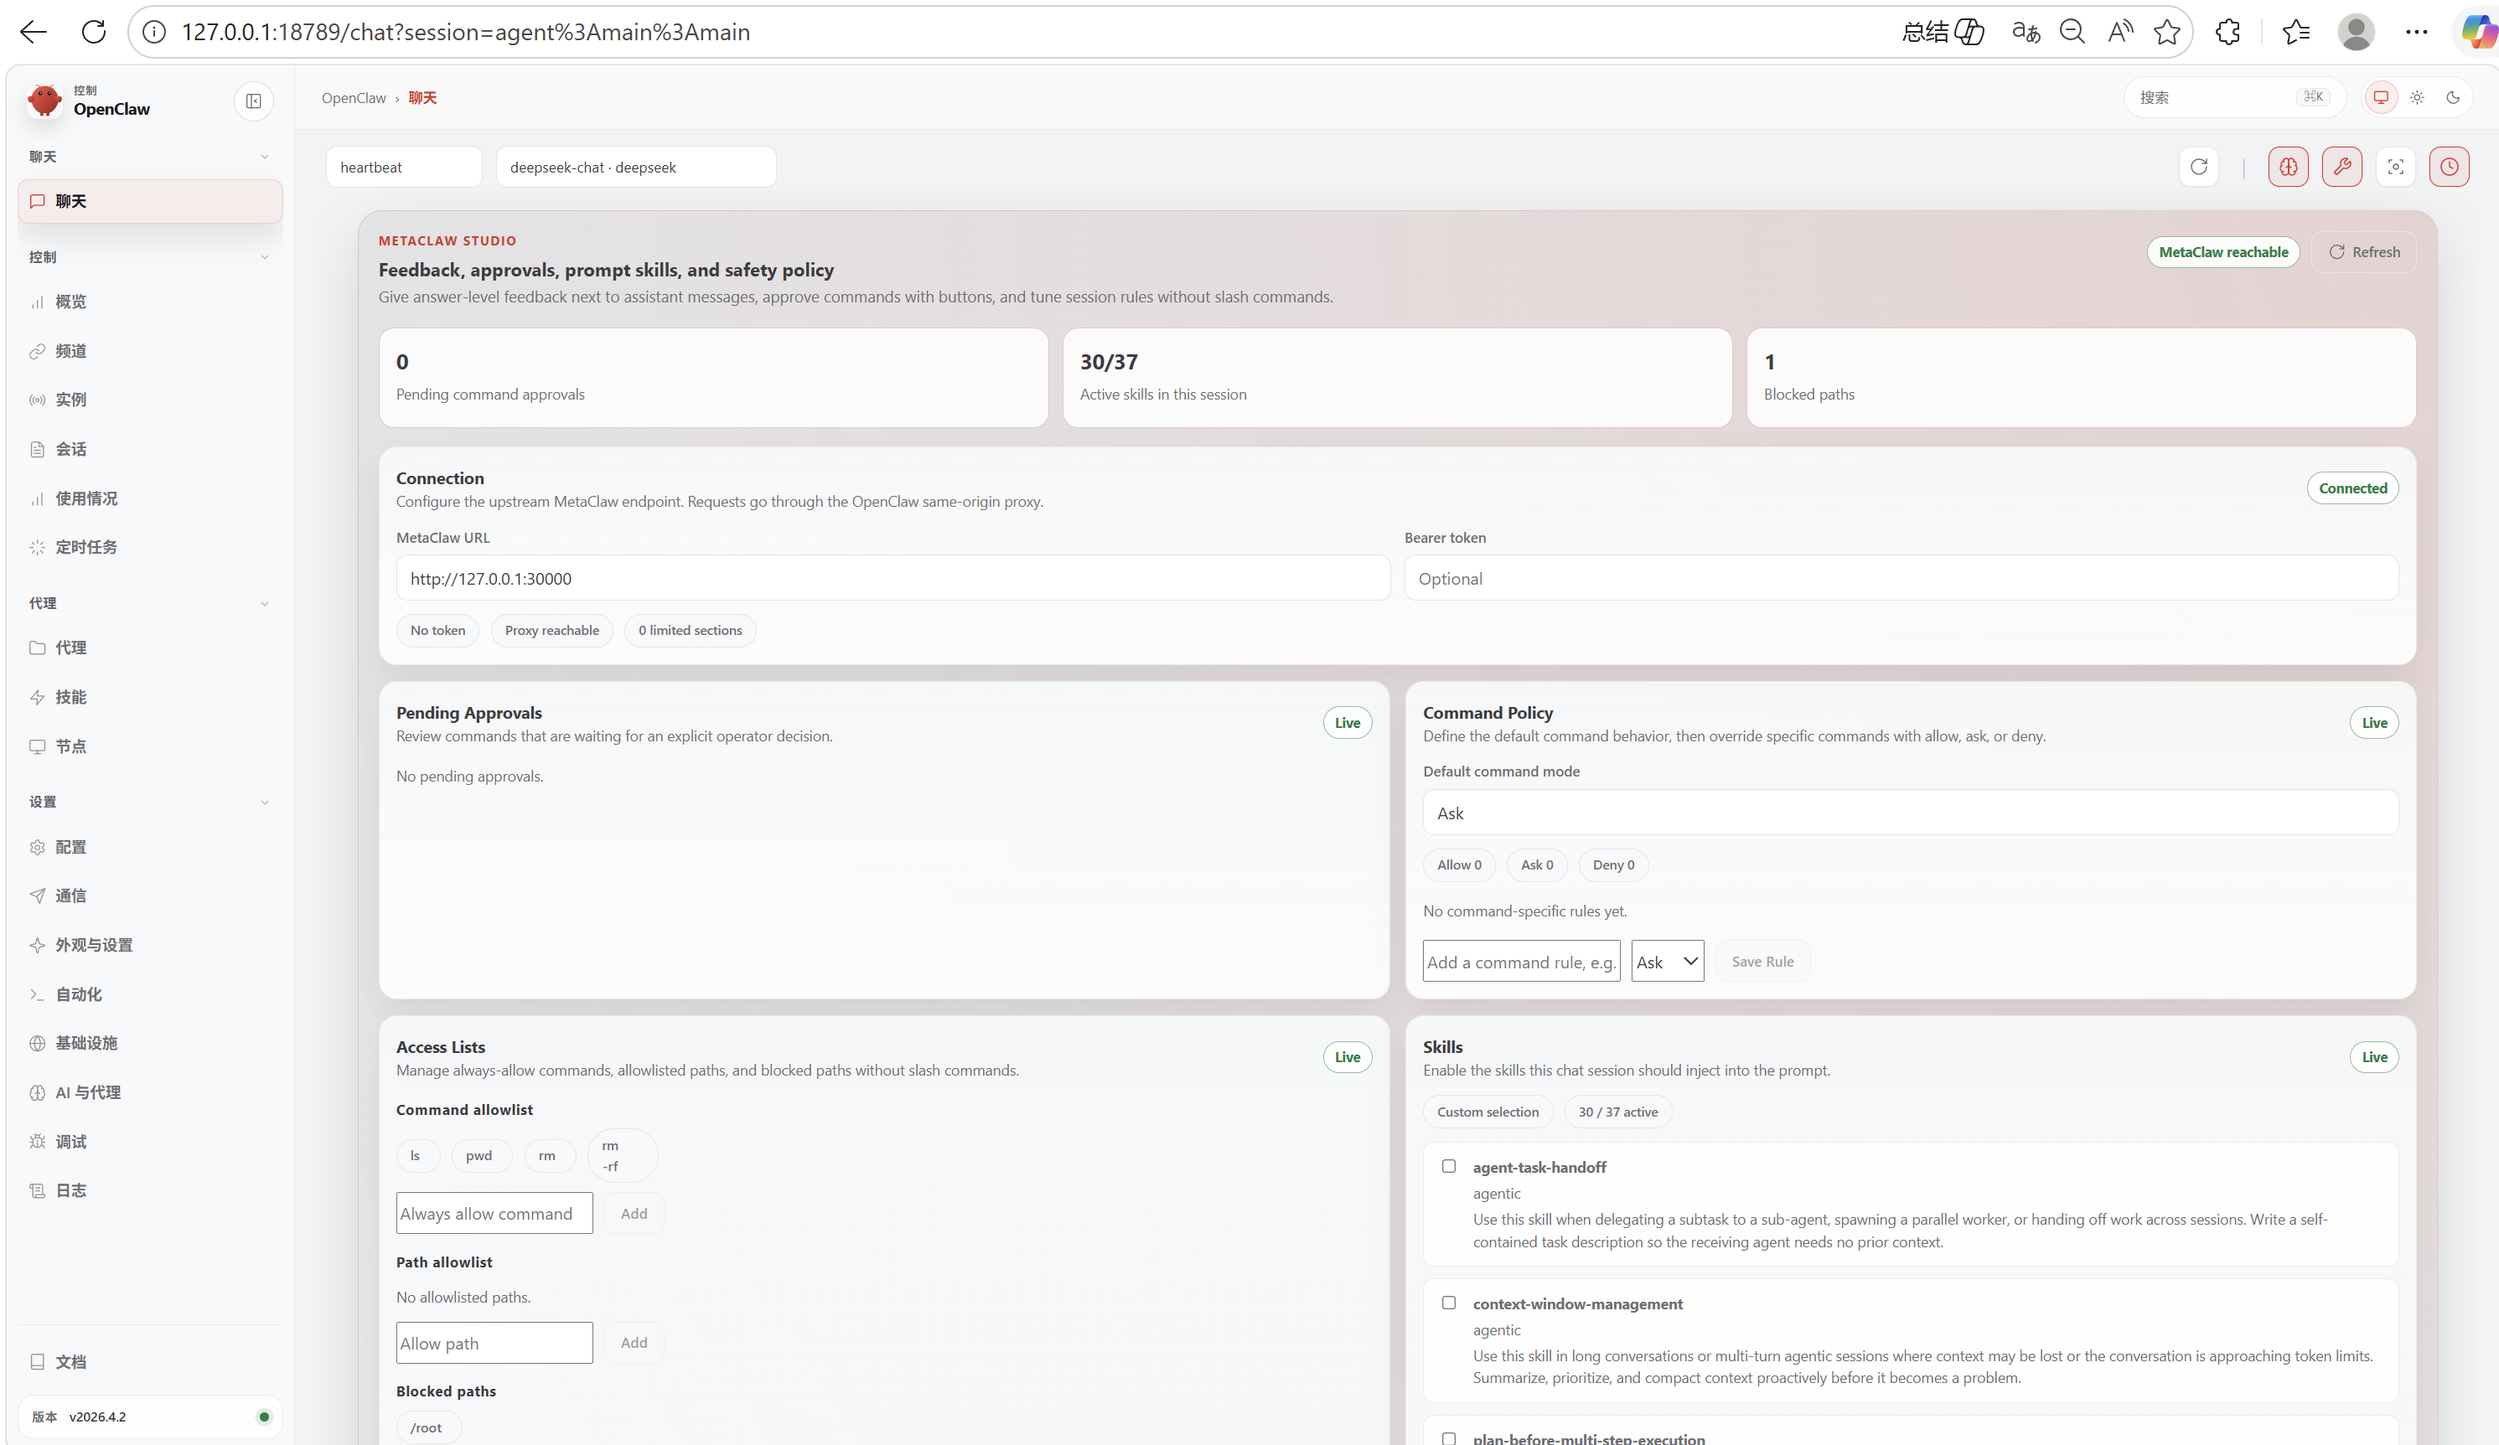
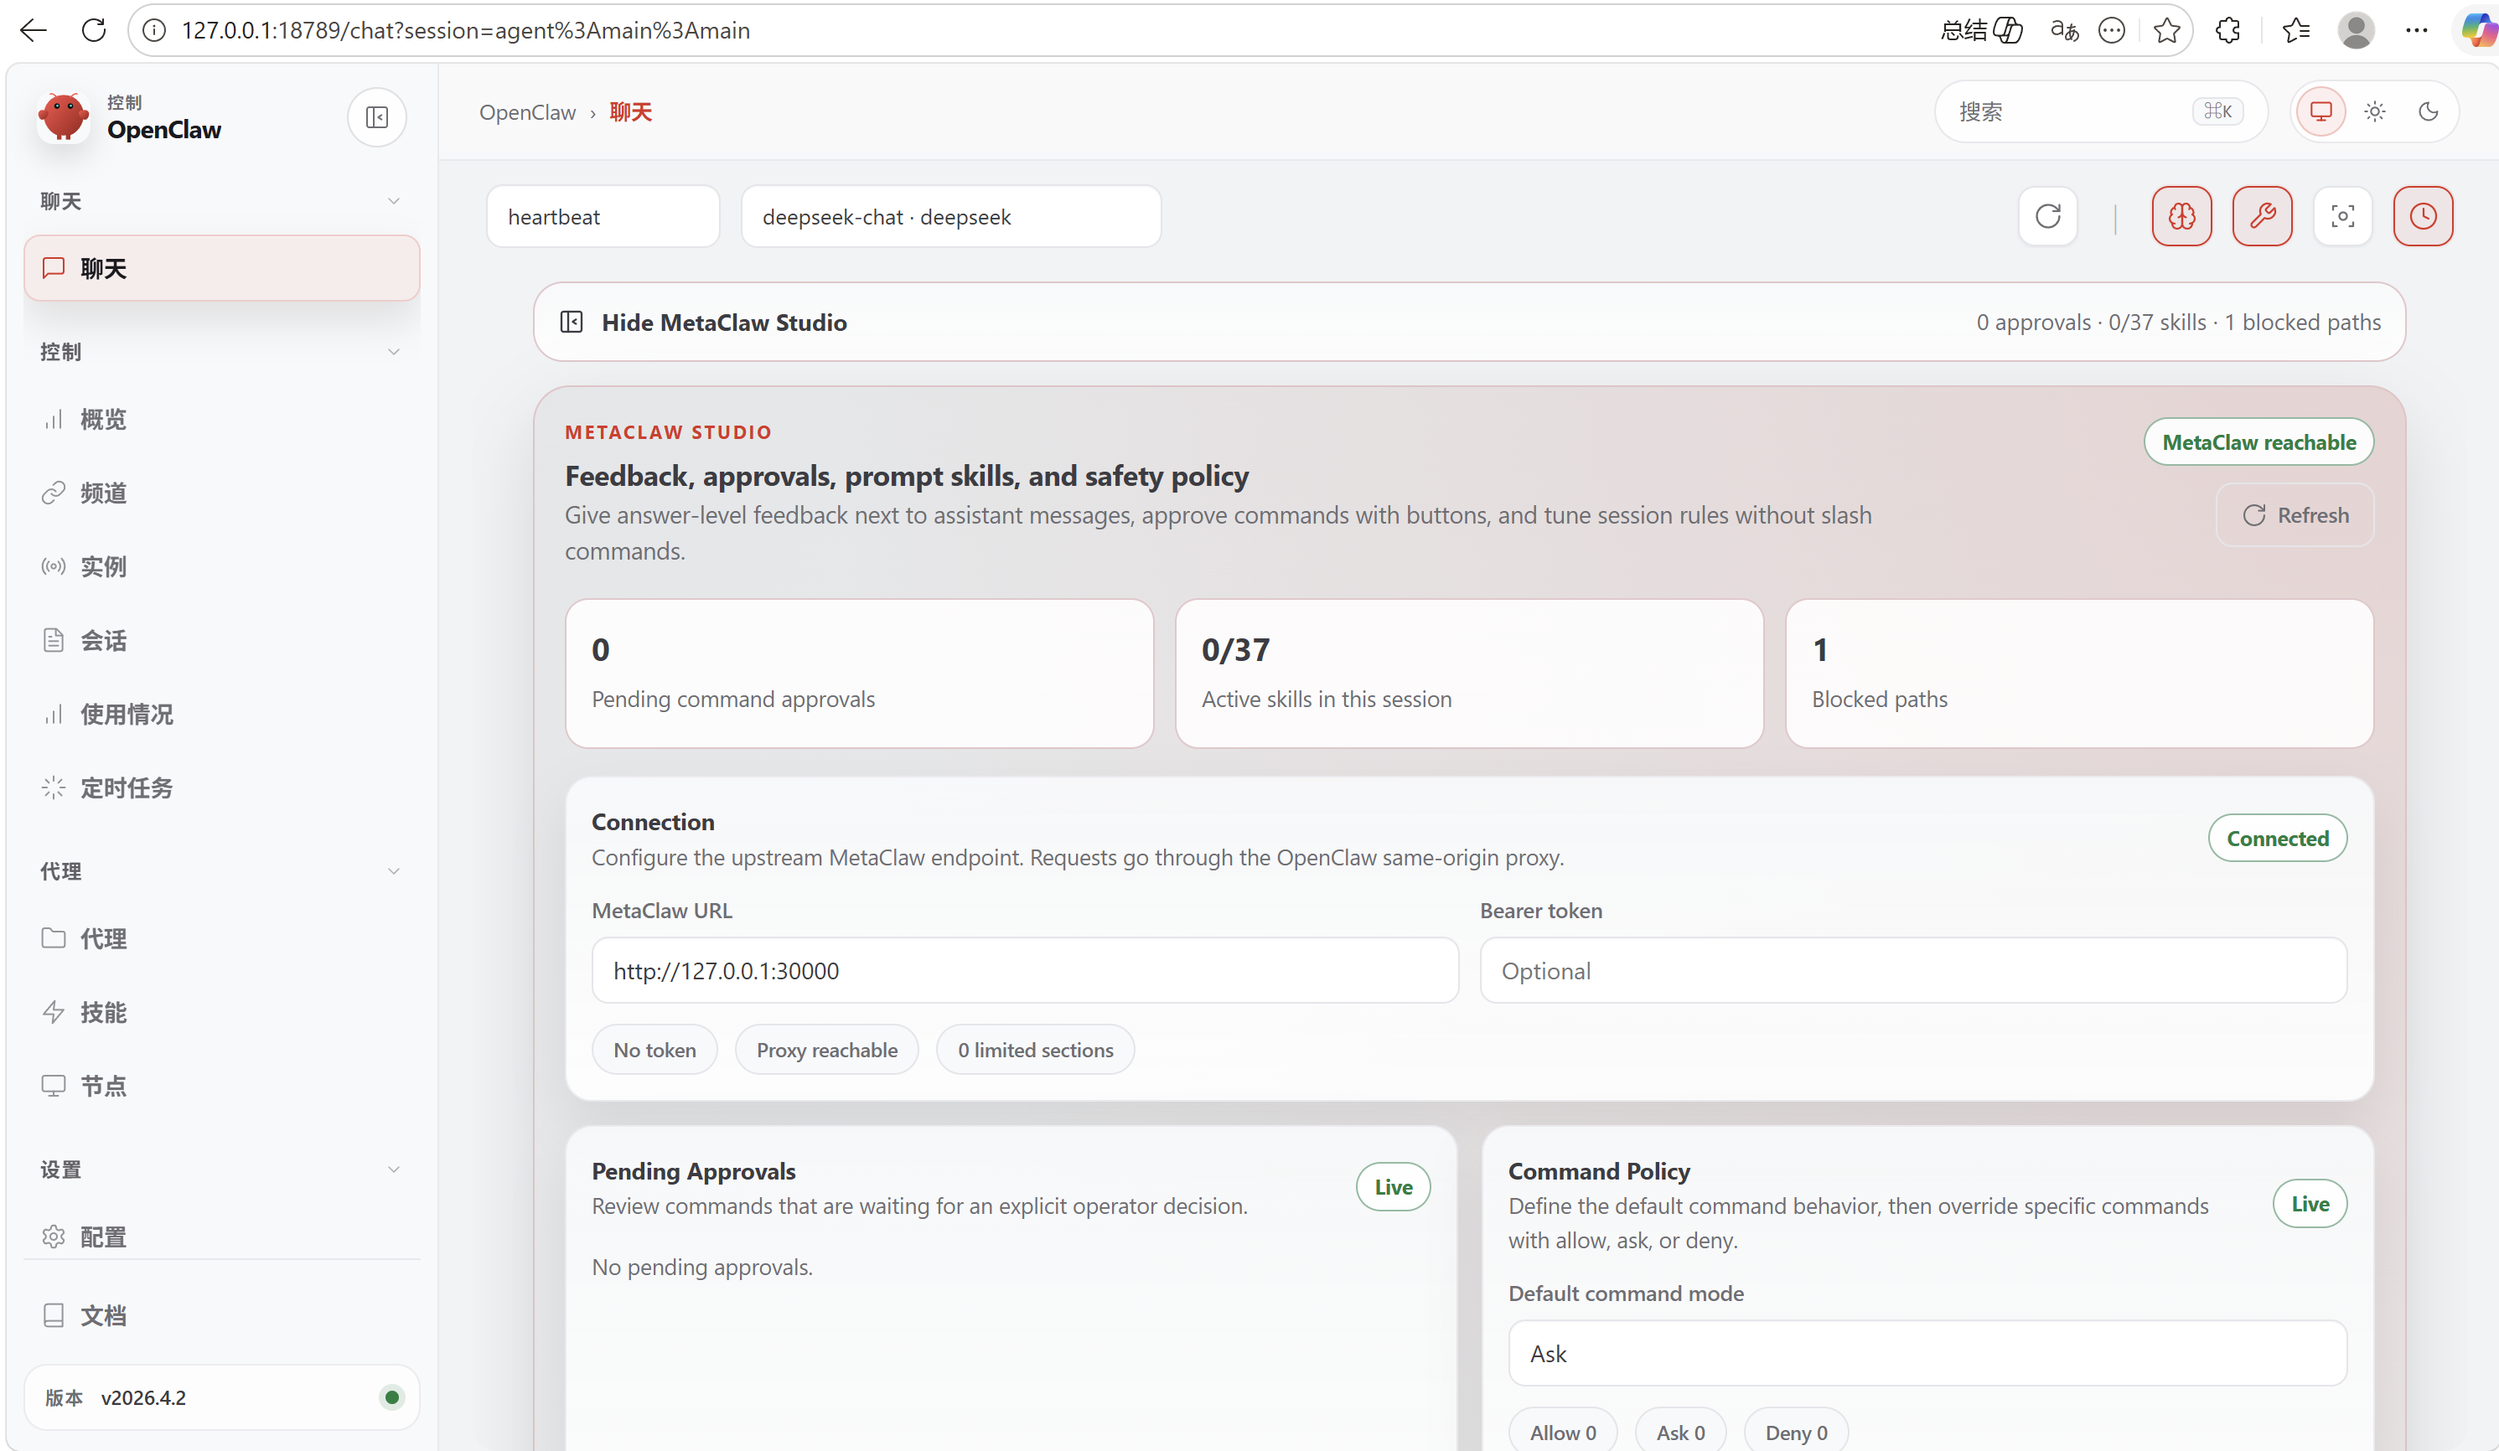
组件滑动

diff --git a/openclaw/ui/src/styles/chat/layout.css b/openclaw/ui/src/styles/chat/layout.css
@@ -555,12 +555,26 @@
 .metaclaw-studio {
   margin: 0 18px 16px;
   padding: 18px;
+  max-height: min(72vh, 920px);
+  overflow-y: auto;
+  overscroll-behavior: contain;
+  scrollbar-gutter: stable;
+  scrollbar-width: thin;
   border: 1px solid color-mix(in srgb, var(--accent) 18%, var(--border));
   border-radius: calc(var(--radius-lg) + 8px);
   background:
     radial-gradient(circle at top right, color-mix(in srgb, var(--accent) 13%, transparent), transparent 30%),
     linear-gradient(140deg, color-mix(in srgb, var(--panel) 92%, #07131b), color-mix(in srgb, var(--card) 94%, #0c1821));
   box-shadow: 0 18px 48px rgba(0, 0, 0, 0.12);
+}
+
+.metaclaw-studio::-webkit-scrollbar {
+  width: 10px;
+}
+
+.metaclaw-studio::-webkit-scrollbar-thumb {
+  border-radius: 999px;
+  background: color-mix(in srgb, var(--accent) 24%, var(--border));
 }
 
 .metaclaw-studio__banner,
@@ -908,6 +922,10 @@
 }
 
 @media (max-width: 980px) {
+  .metaclaw-studio {
+    max-height: min(66vh, 860px);
+  }
+
   .metaclaw-toggle {
     flex-direction: column;
     align-items: flex-start;
